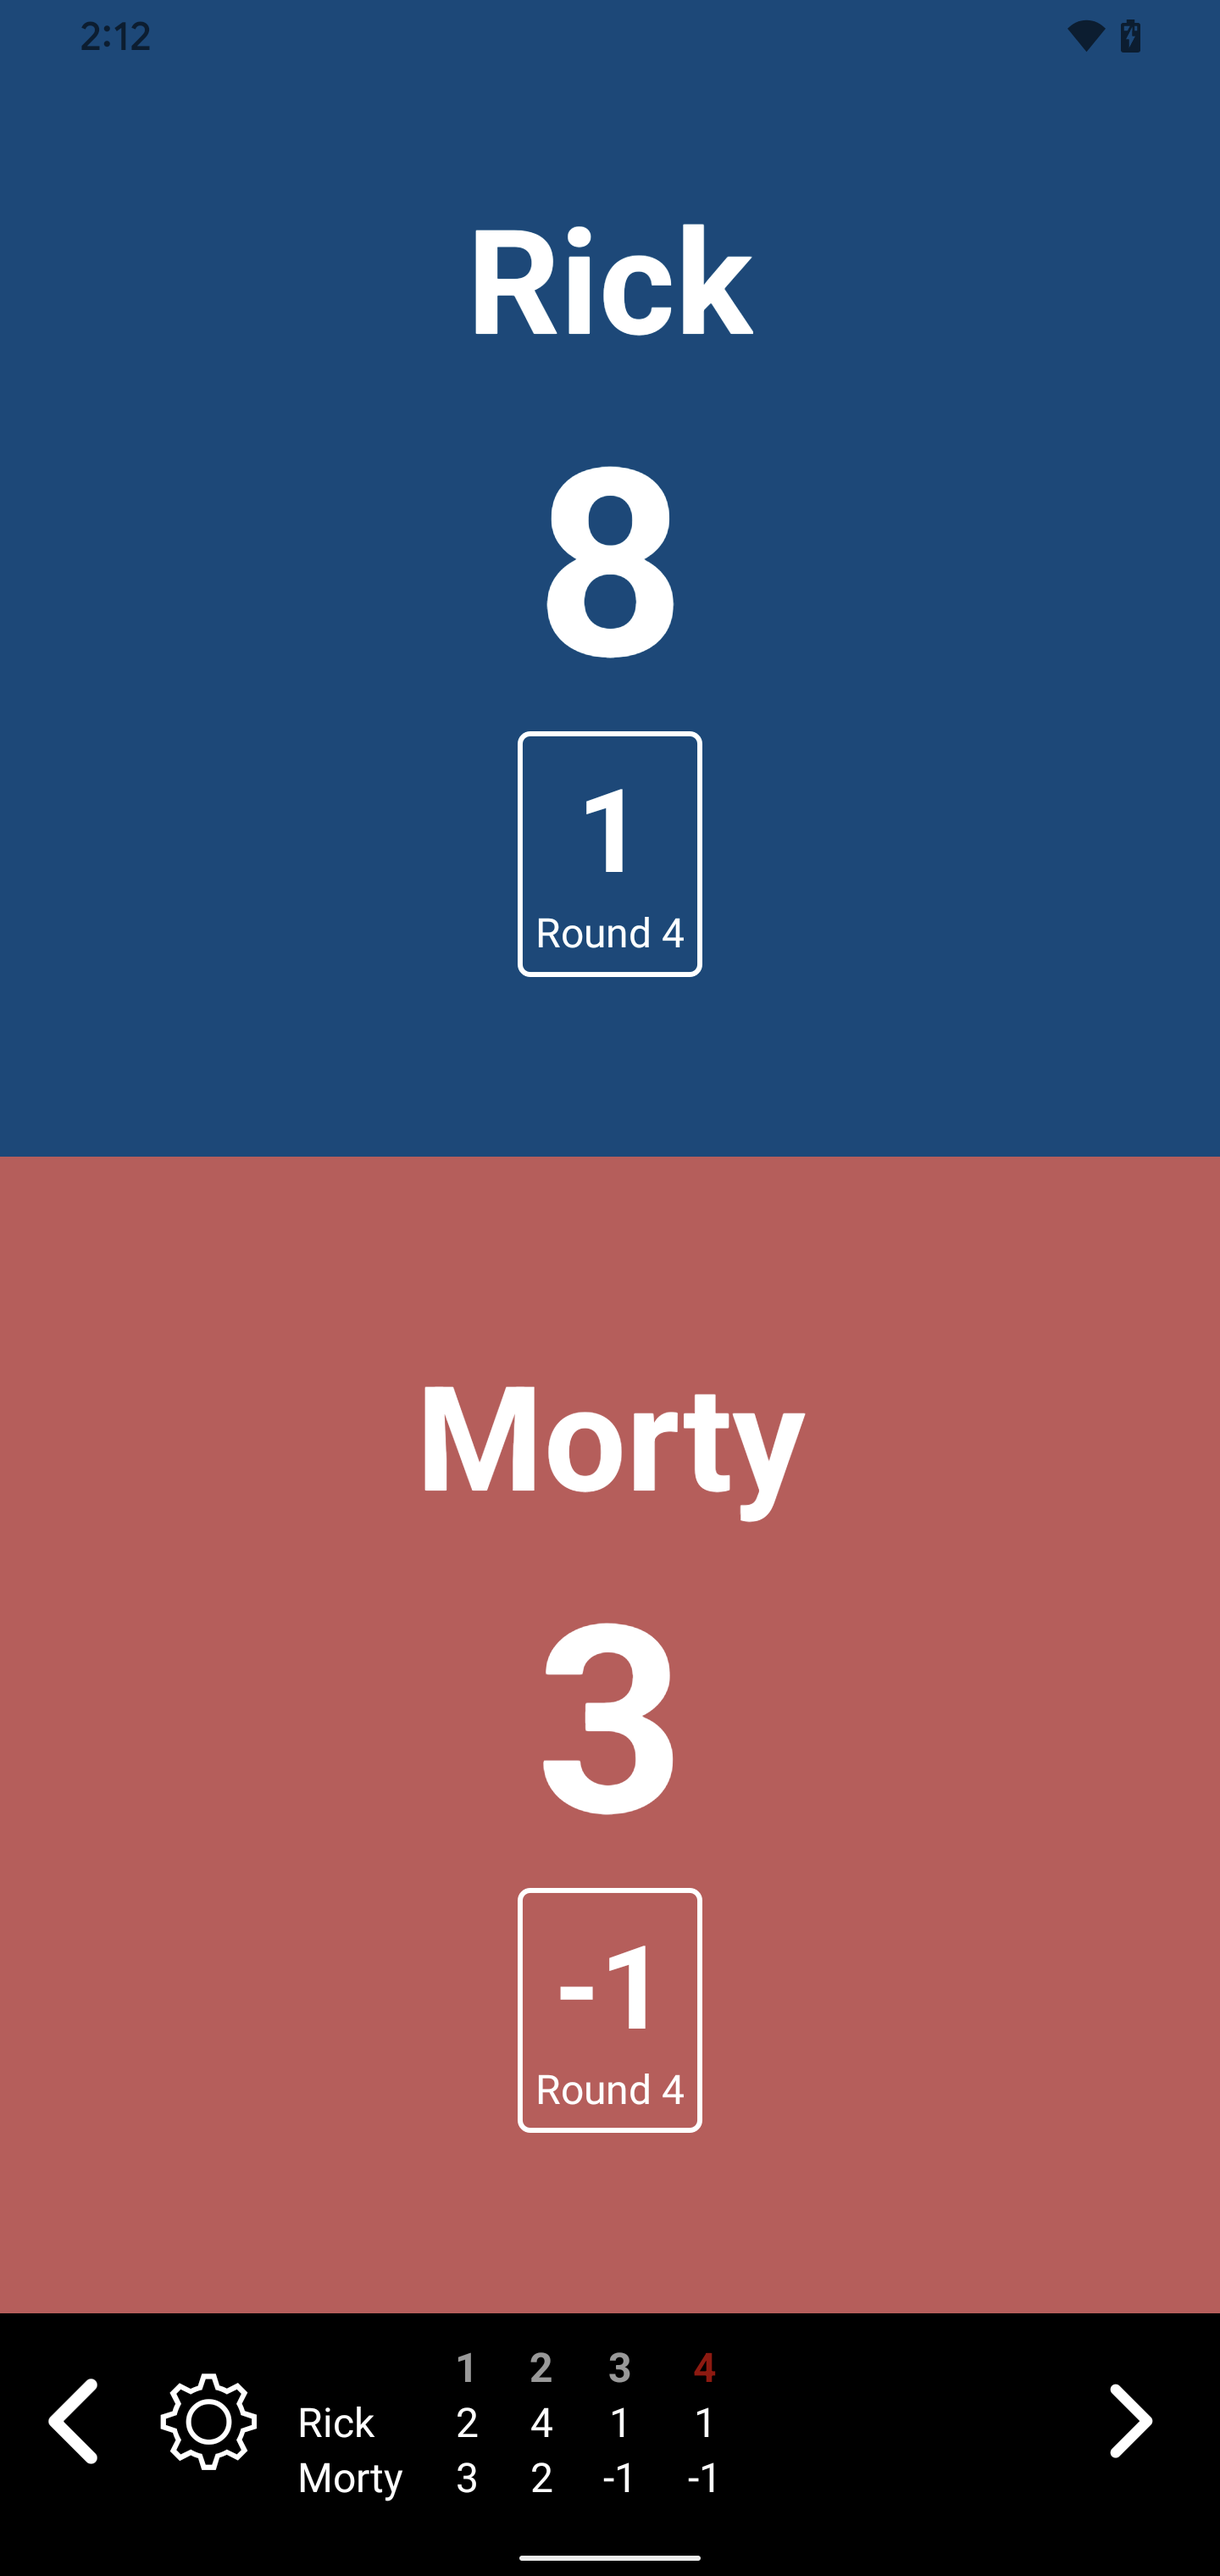
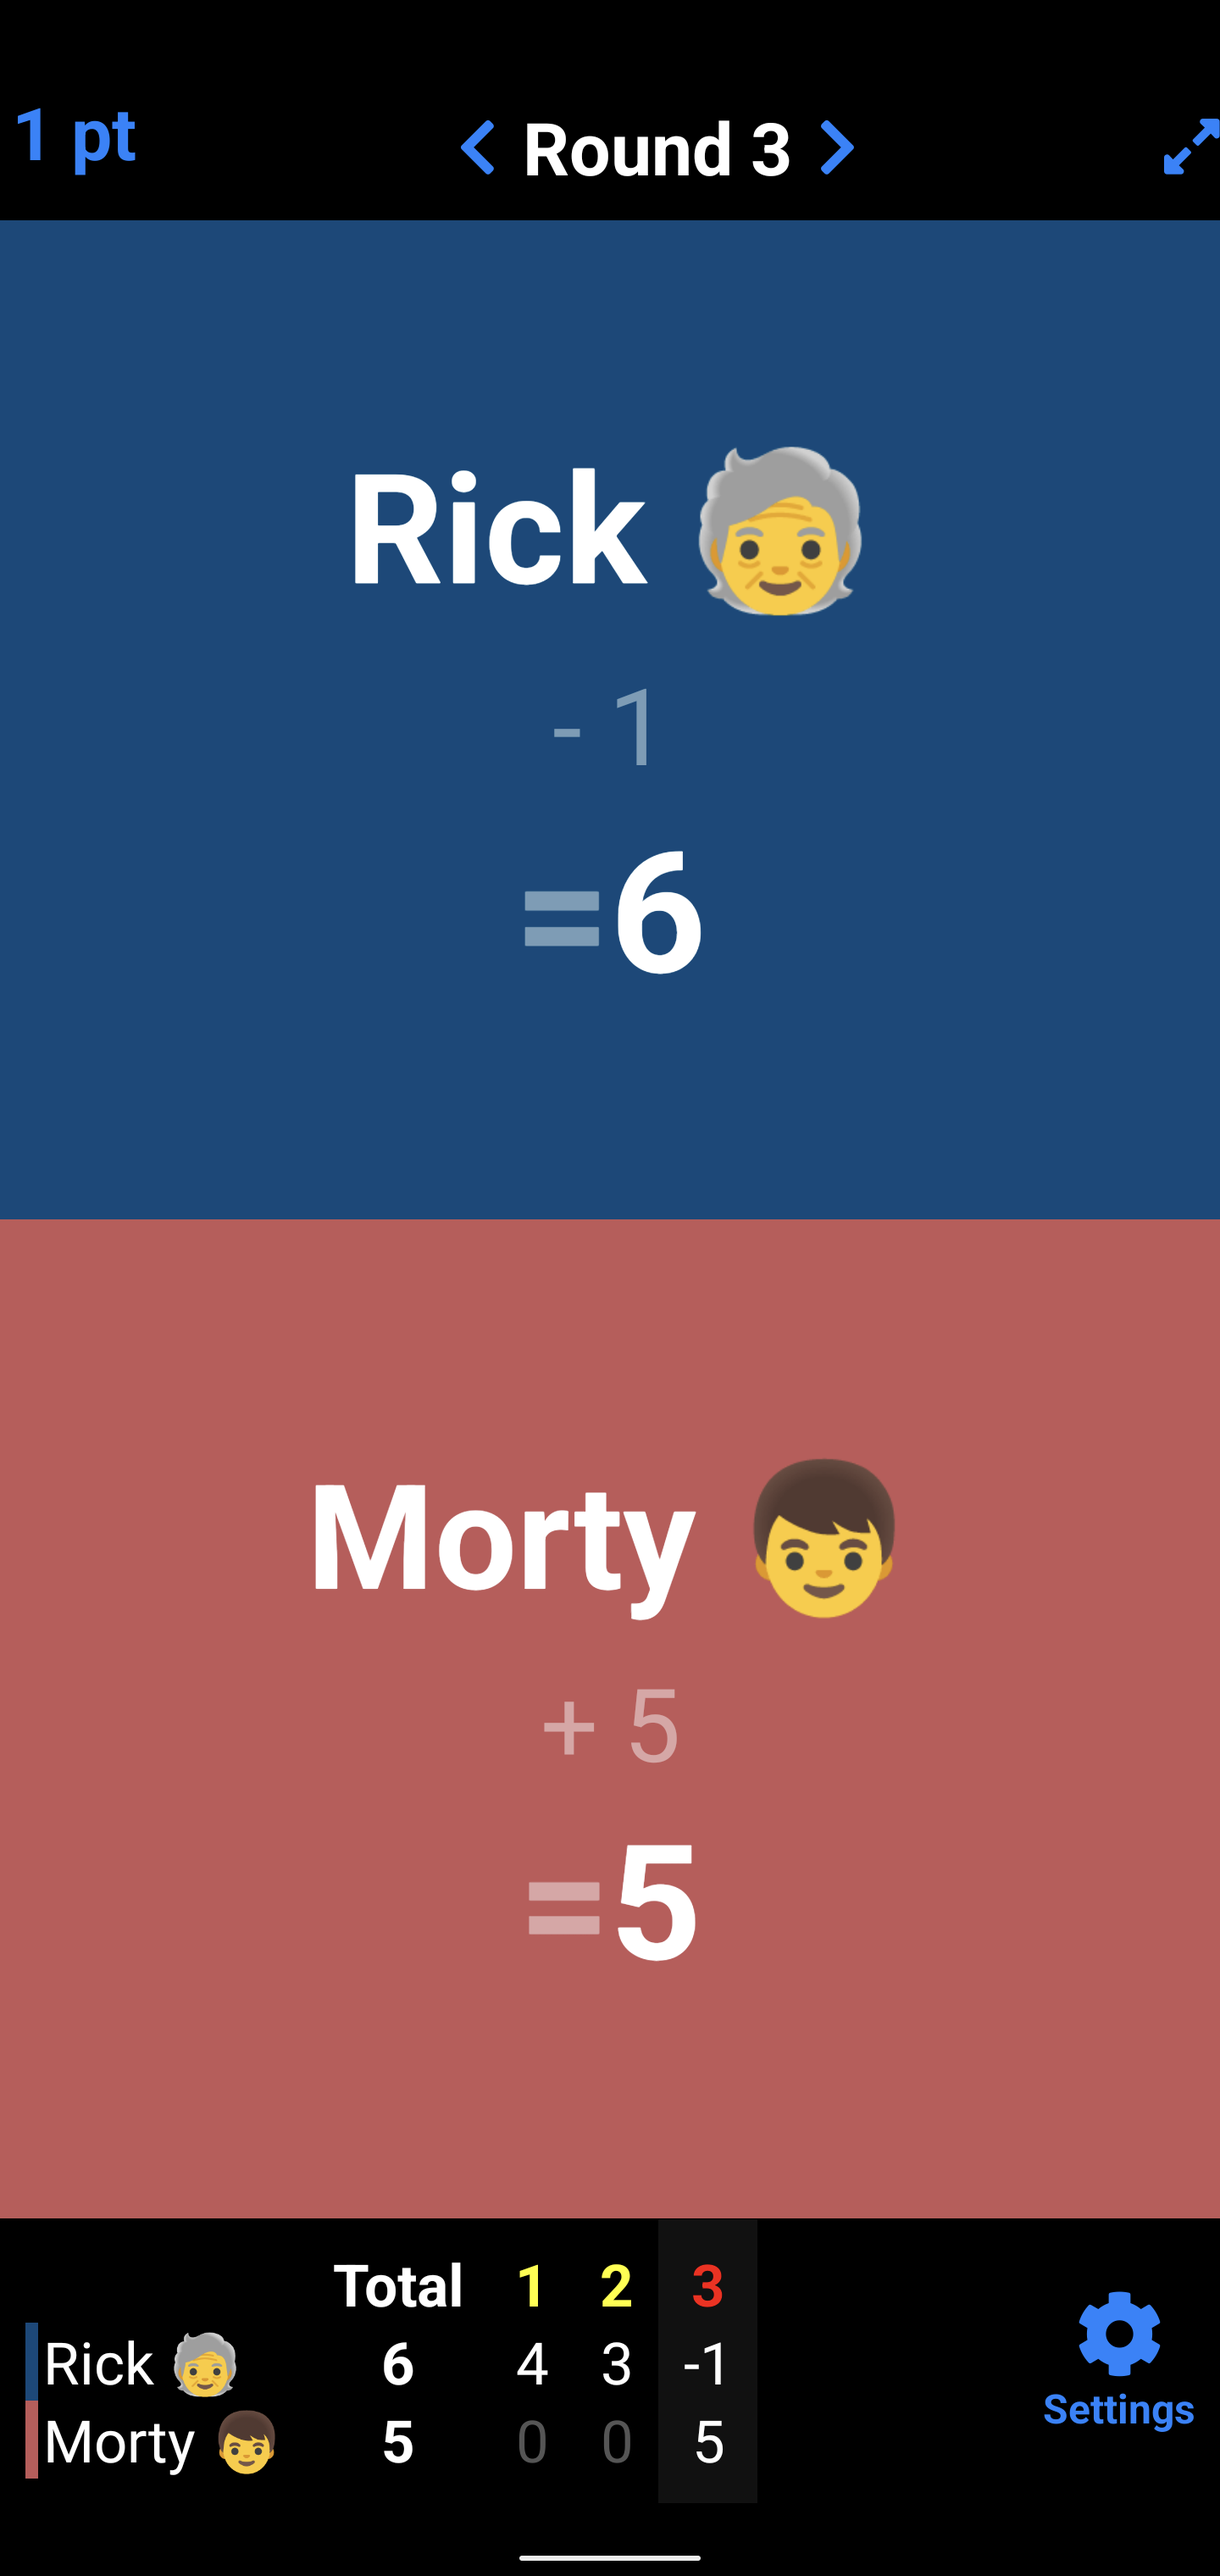
Google analytics + updated screenshots

diff --git a/index.html b/index.html
@@ -16,6 +16,16 @@
 	<link rel="stylesheet" href="assets/tobi.css" />
 	<link rel="stylesheet" href="assets/style.css" />
 
+	<!-- Global site tag (gtag.js) - Google Analytics -->
+	<script async src="https://www.googletagmanager.com/gtag/js?id=G-YLTV2HGXR5"></script>
+	<script>
+		window.dataLayer = window.dataLayer || [];
+		function gtag() { dataLayer.push(arguments); }
+		gtag('js', new Date());
+
+		gtag('config', 'G-YLTV2HGXR5');
+	</script>
+
 </head>
 
 <body>
@@ -78,6 +88,9 @@
 					<a href="content/image/screenshot3.png" class="lightbox">
 						<img src="content/image/screenshot3.png" class="app__screenshot" alt="" />
 					</a>
+					<a href="content/image/screenshot4.png" class="lightbox">
+						<img src="content/image/screenshot4.png" class="app__screenshot" alt="" />
+					</a>
 				</div>
 			</div>
 		</section>
@@ -88,11 +101,11 @@
 					also supports round so you can see the point history throughout a game.</p>
 				<p>How to use:</p>
 				<ul>
-					<li>Tap the top half of a player&#39;s card to add a point</li>
-					<li>Tap the bottom half of a player&#39;s card to subtract a point</li>
-					<li>To add or subtract faster, try tapping with alternating fingers</li>
-					<li>Tap the arrows to advance through arounds</li>
-					<li>Scroll through the rounds table to view score history</li>
+					<li>Tap the top half of a player&#39;s card to add a point.</li>
+					<li>Tap the bottom half of a player&#39;s card to subtract a point.</li>
+					<li>Tap the multiplier button in the top left to change number of points added per tap.</li>
+					<li>Tap the arrows to advance through arounds.</li>
+					<li>Scroll through the rounds table to view score history.</li>
 				</ul>
 
 			</div>
